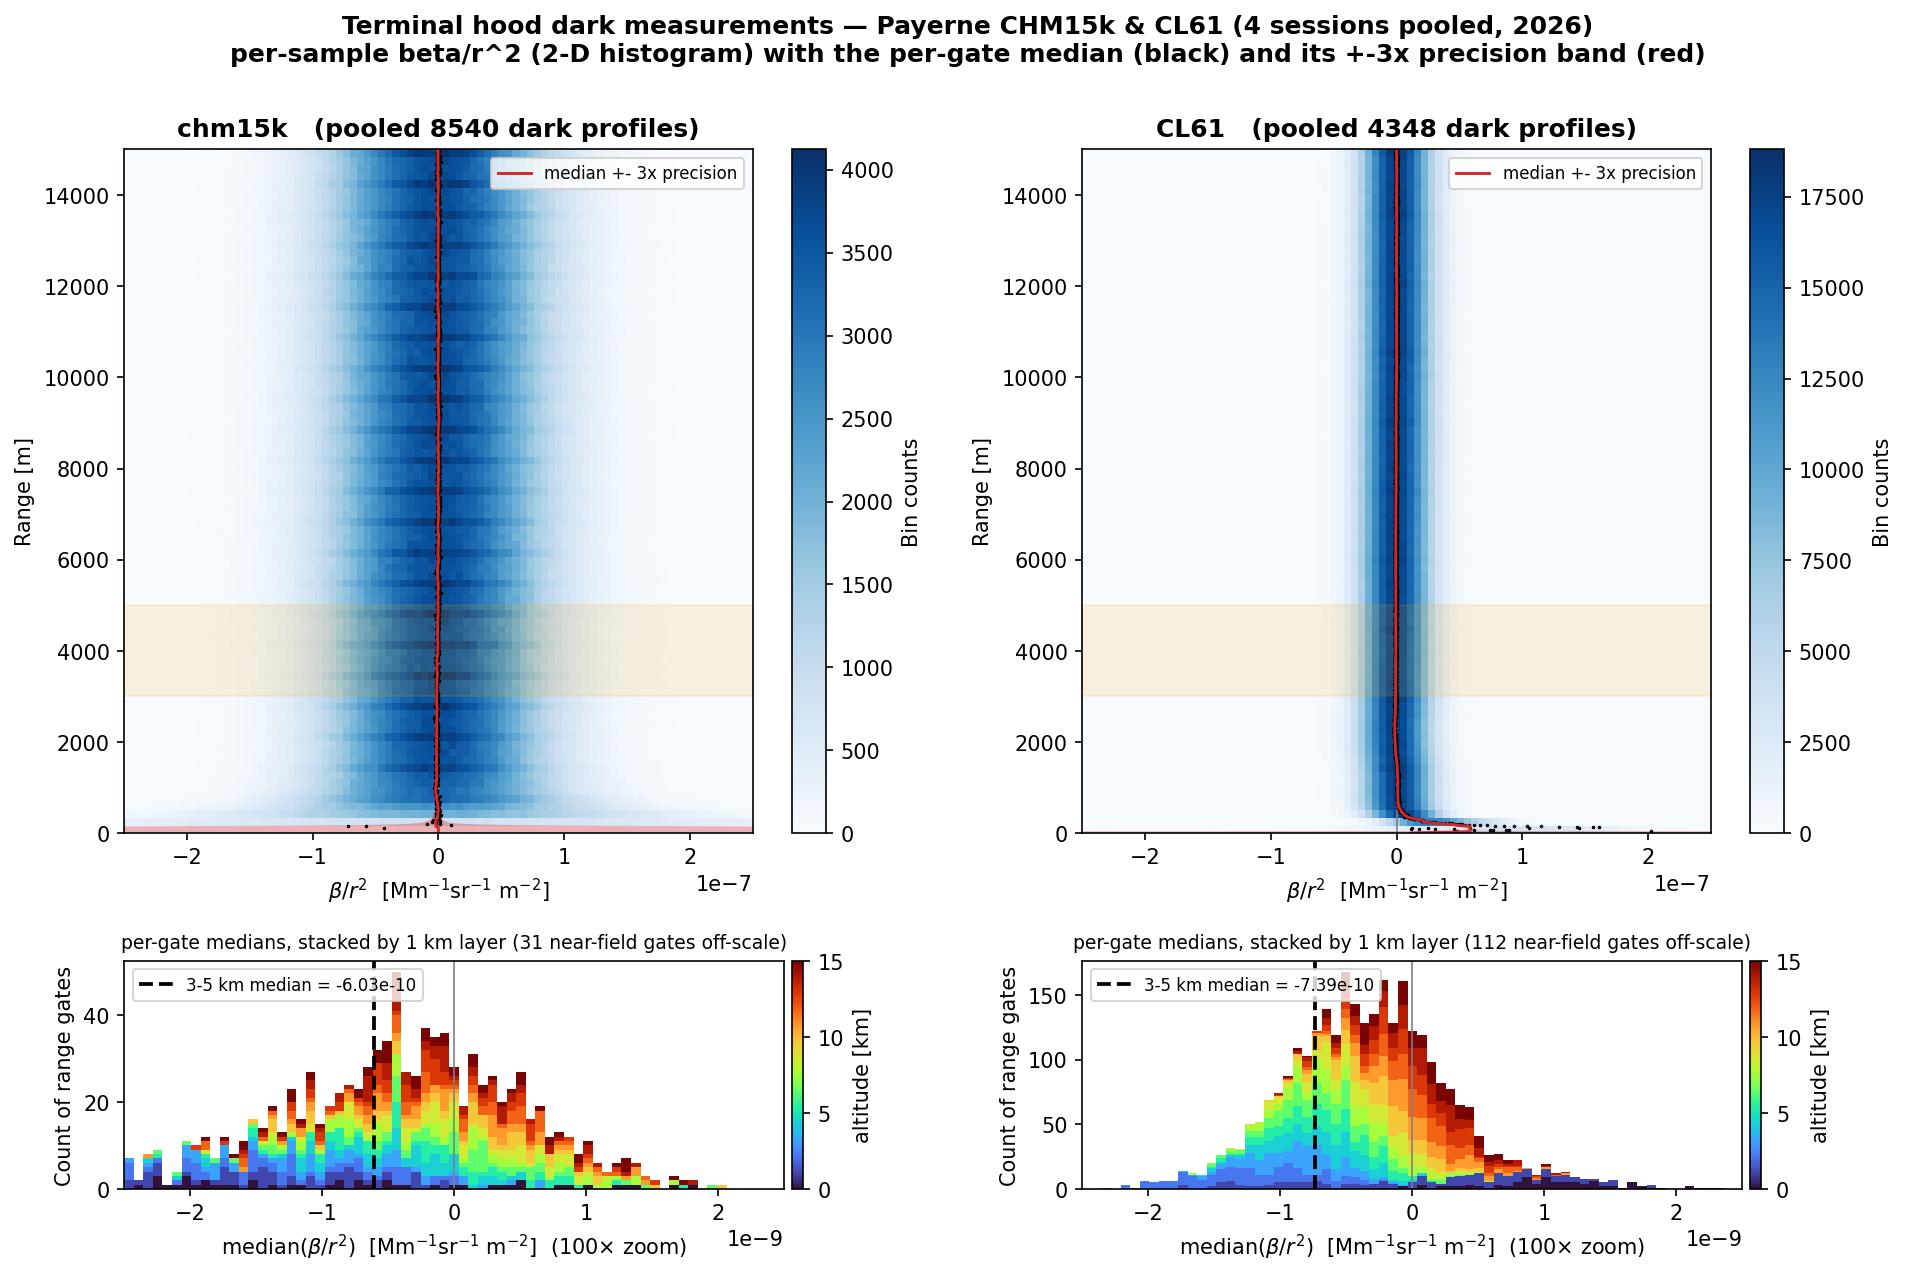
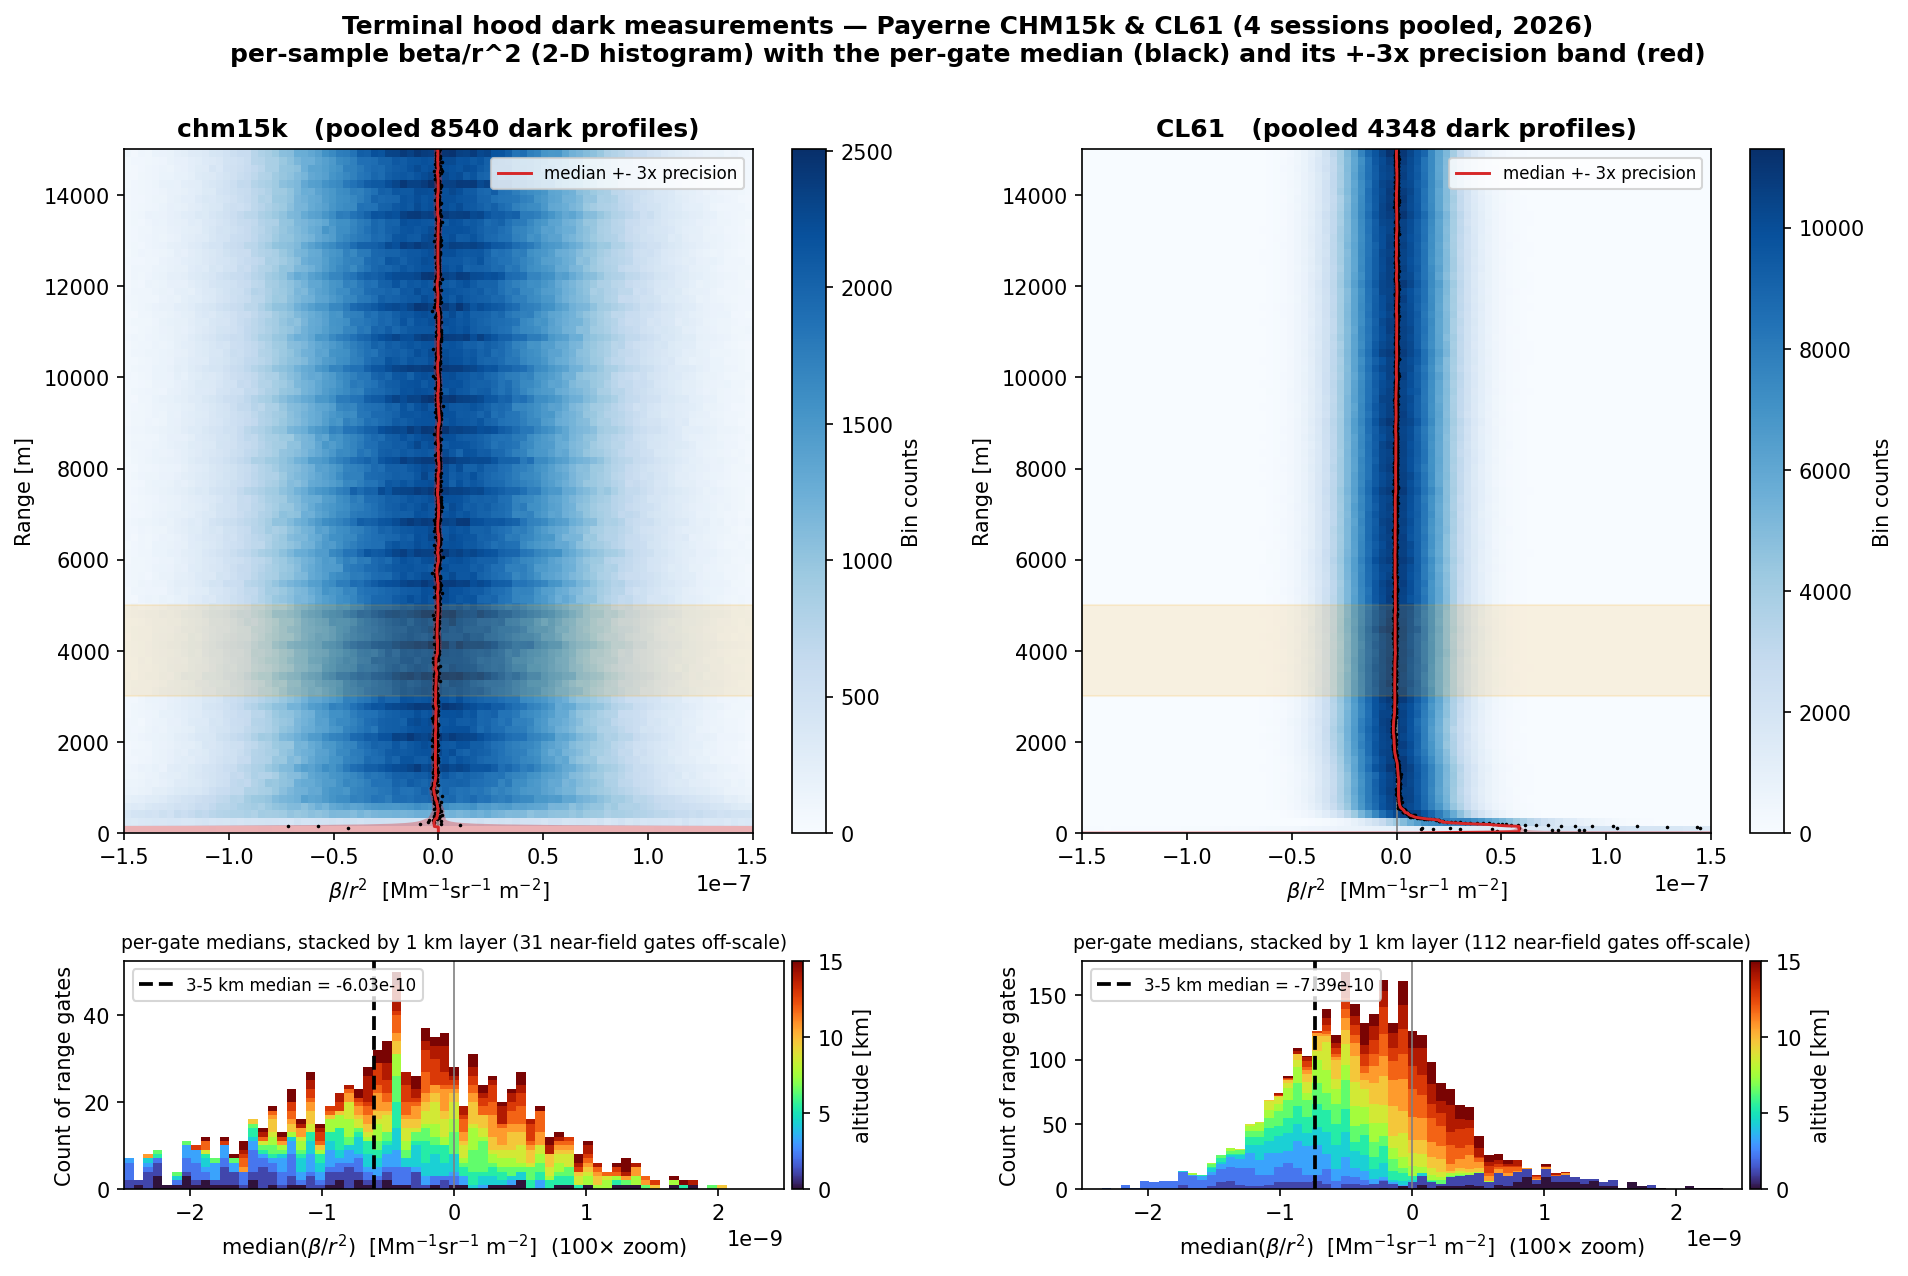
binscatter fig: tighten top-panel xlim to +-1.5e-7
Per-sample beta/r^2 2-D histogram x-limits 2.5e-7 -> 1.5e-7 so the distribution
fills the frame and the per-gate median reads more clearly; bottom altitude-stacked
median histograms unchanged.

diff --git a/validation/paper/_hood_binscatter.py b/validation/paper/_hood_binscatter.py
@@ -47,7 +47,7 @@ def load(ident, t1, t2):
 
 fig = plt.figure(figsize=(15, 9))
 gs = fig.add_gridspec(2, 2, height_ratios=[3, 1], hspace=0.28, wspace=0.22)
-XLIM = 2.5e-7
+XLIM = 1.5e-7
 for k, (inst, (ident, CL, wins)) in enumerate(INST.items()):
     pool, rng = [], None
     for s1, s2 in wins:
